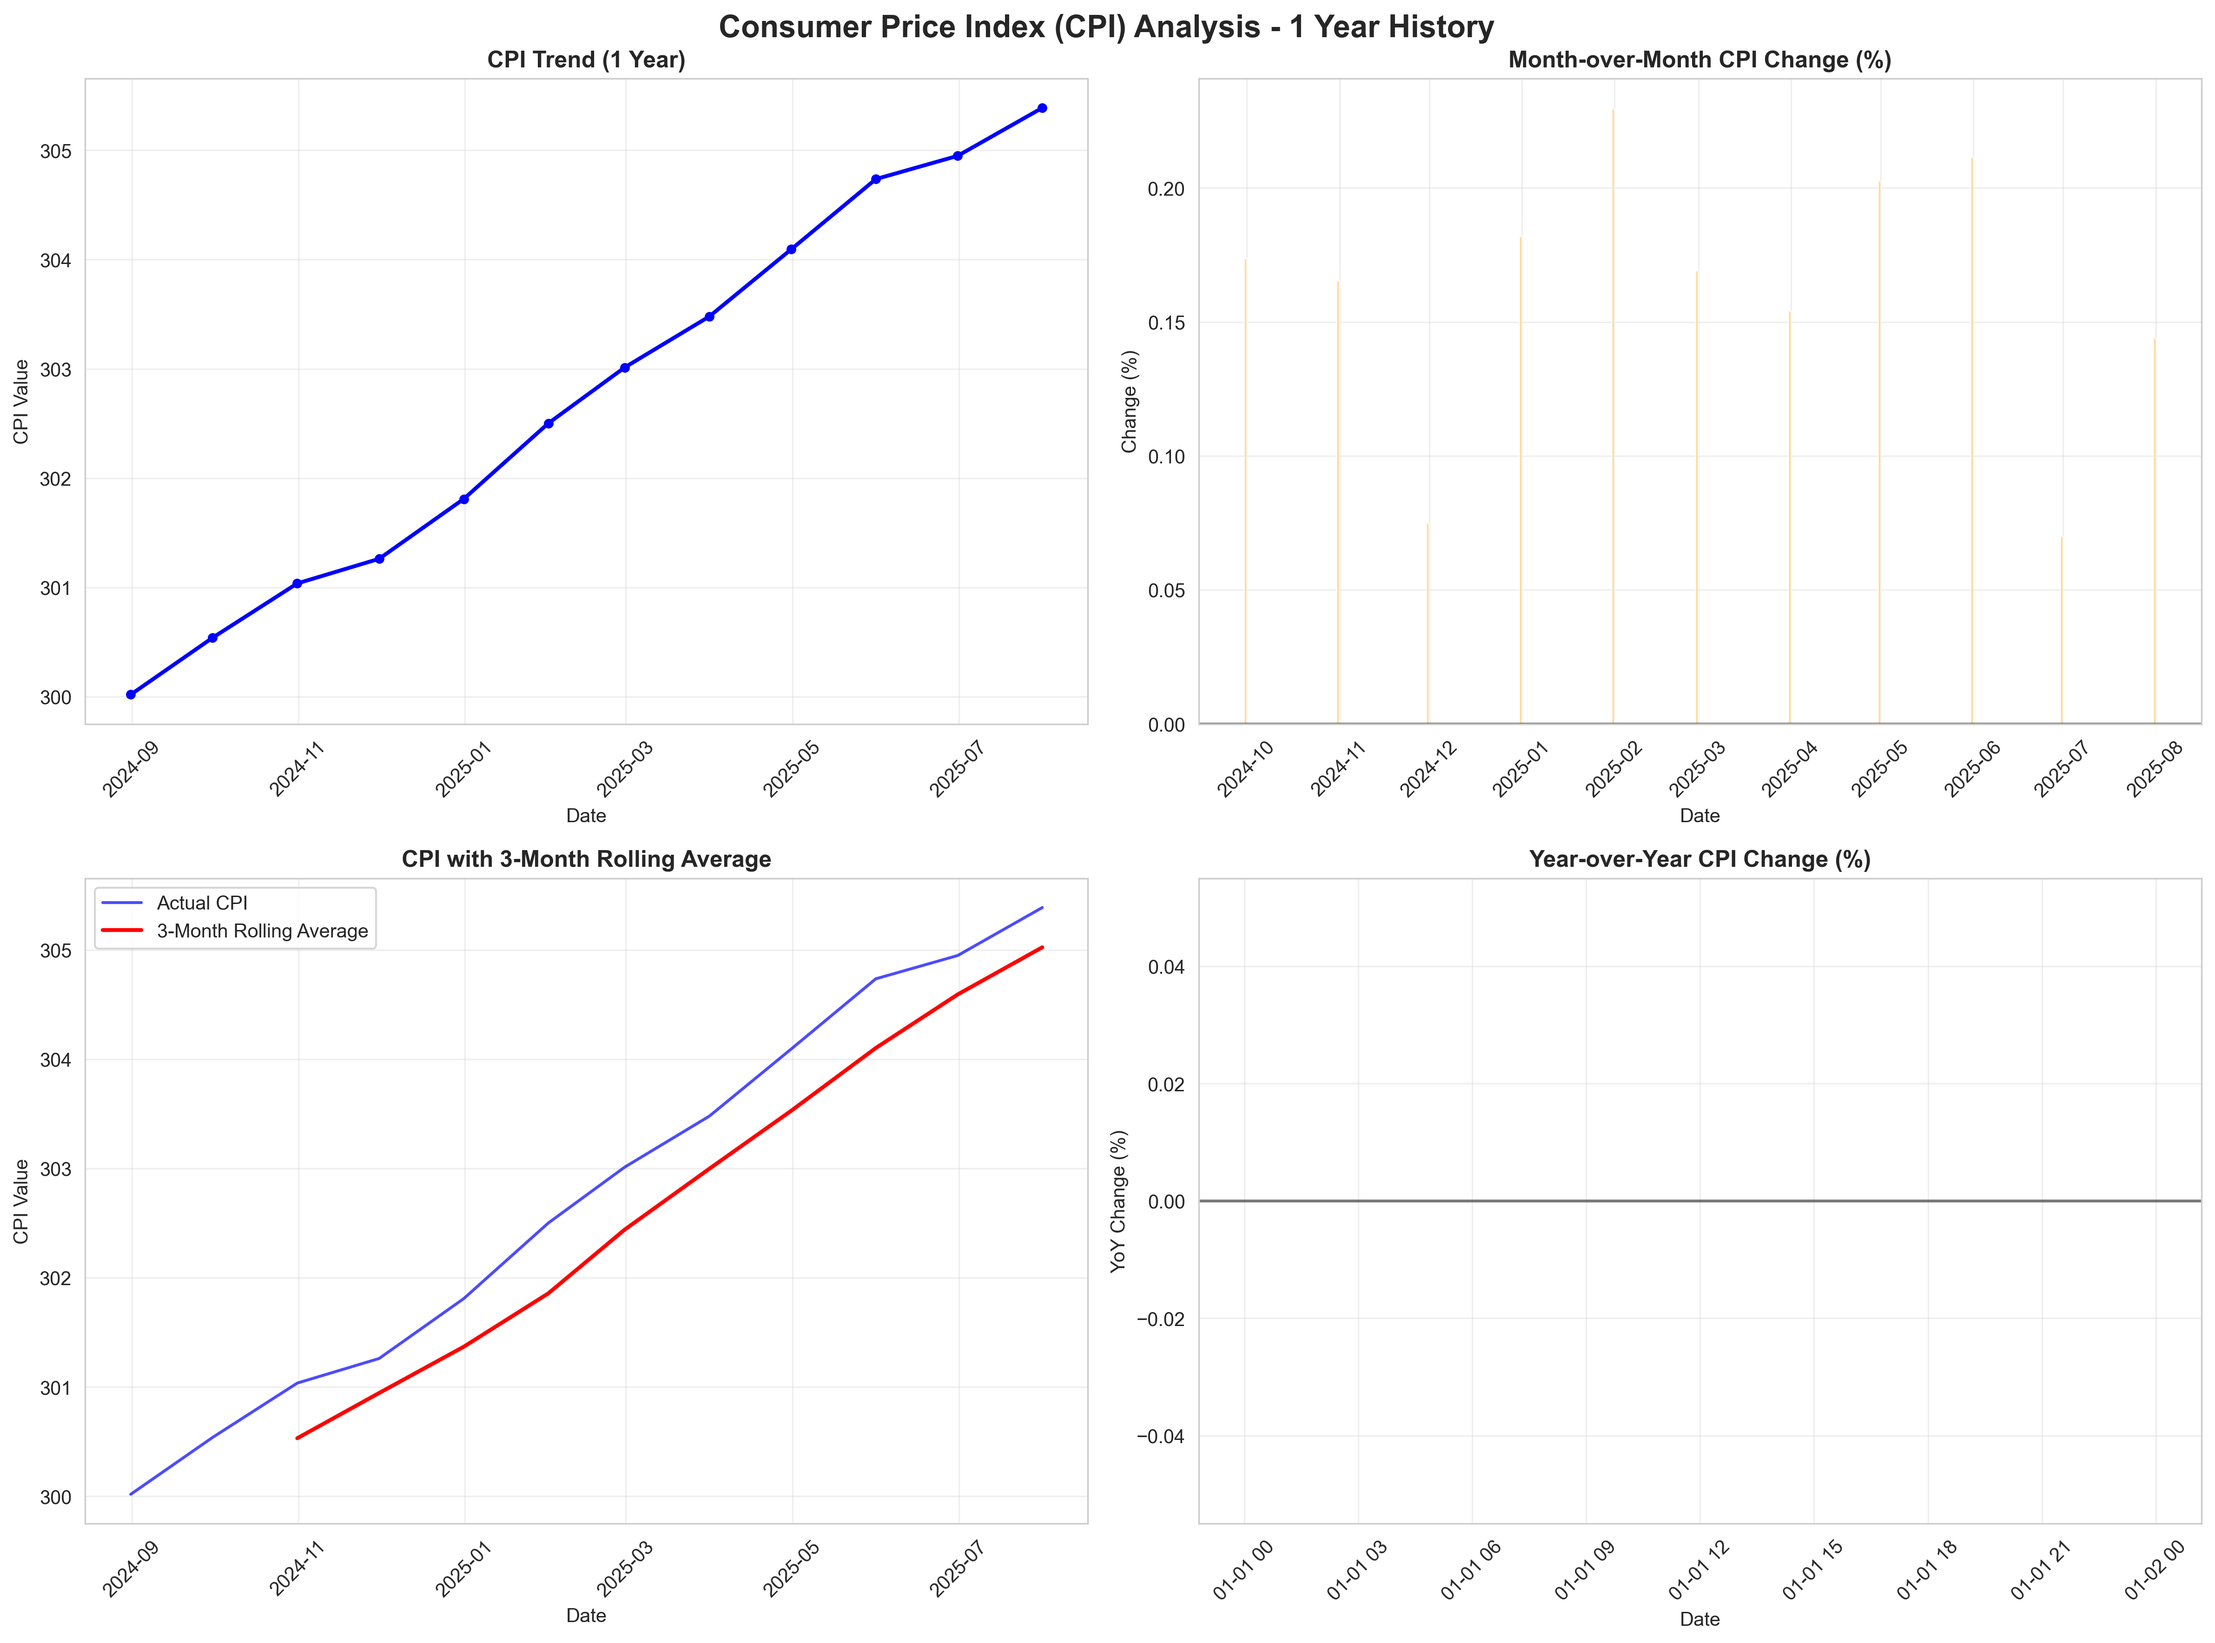
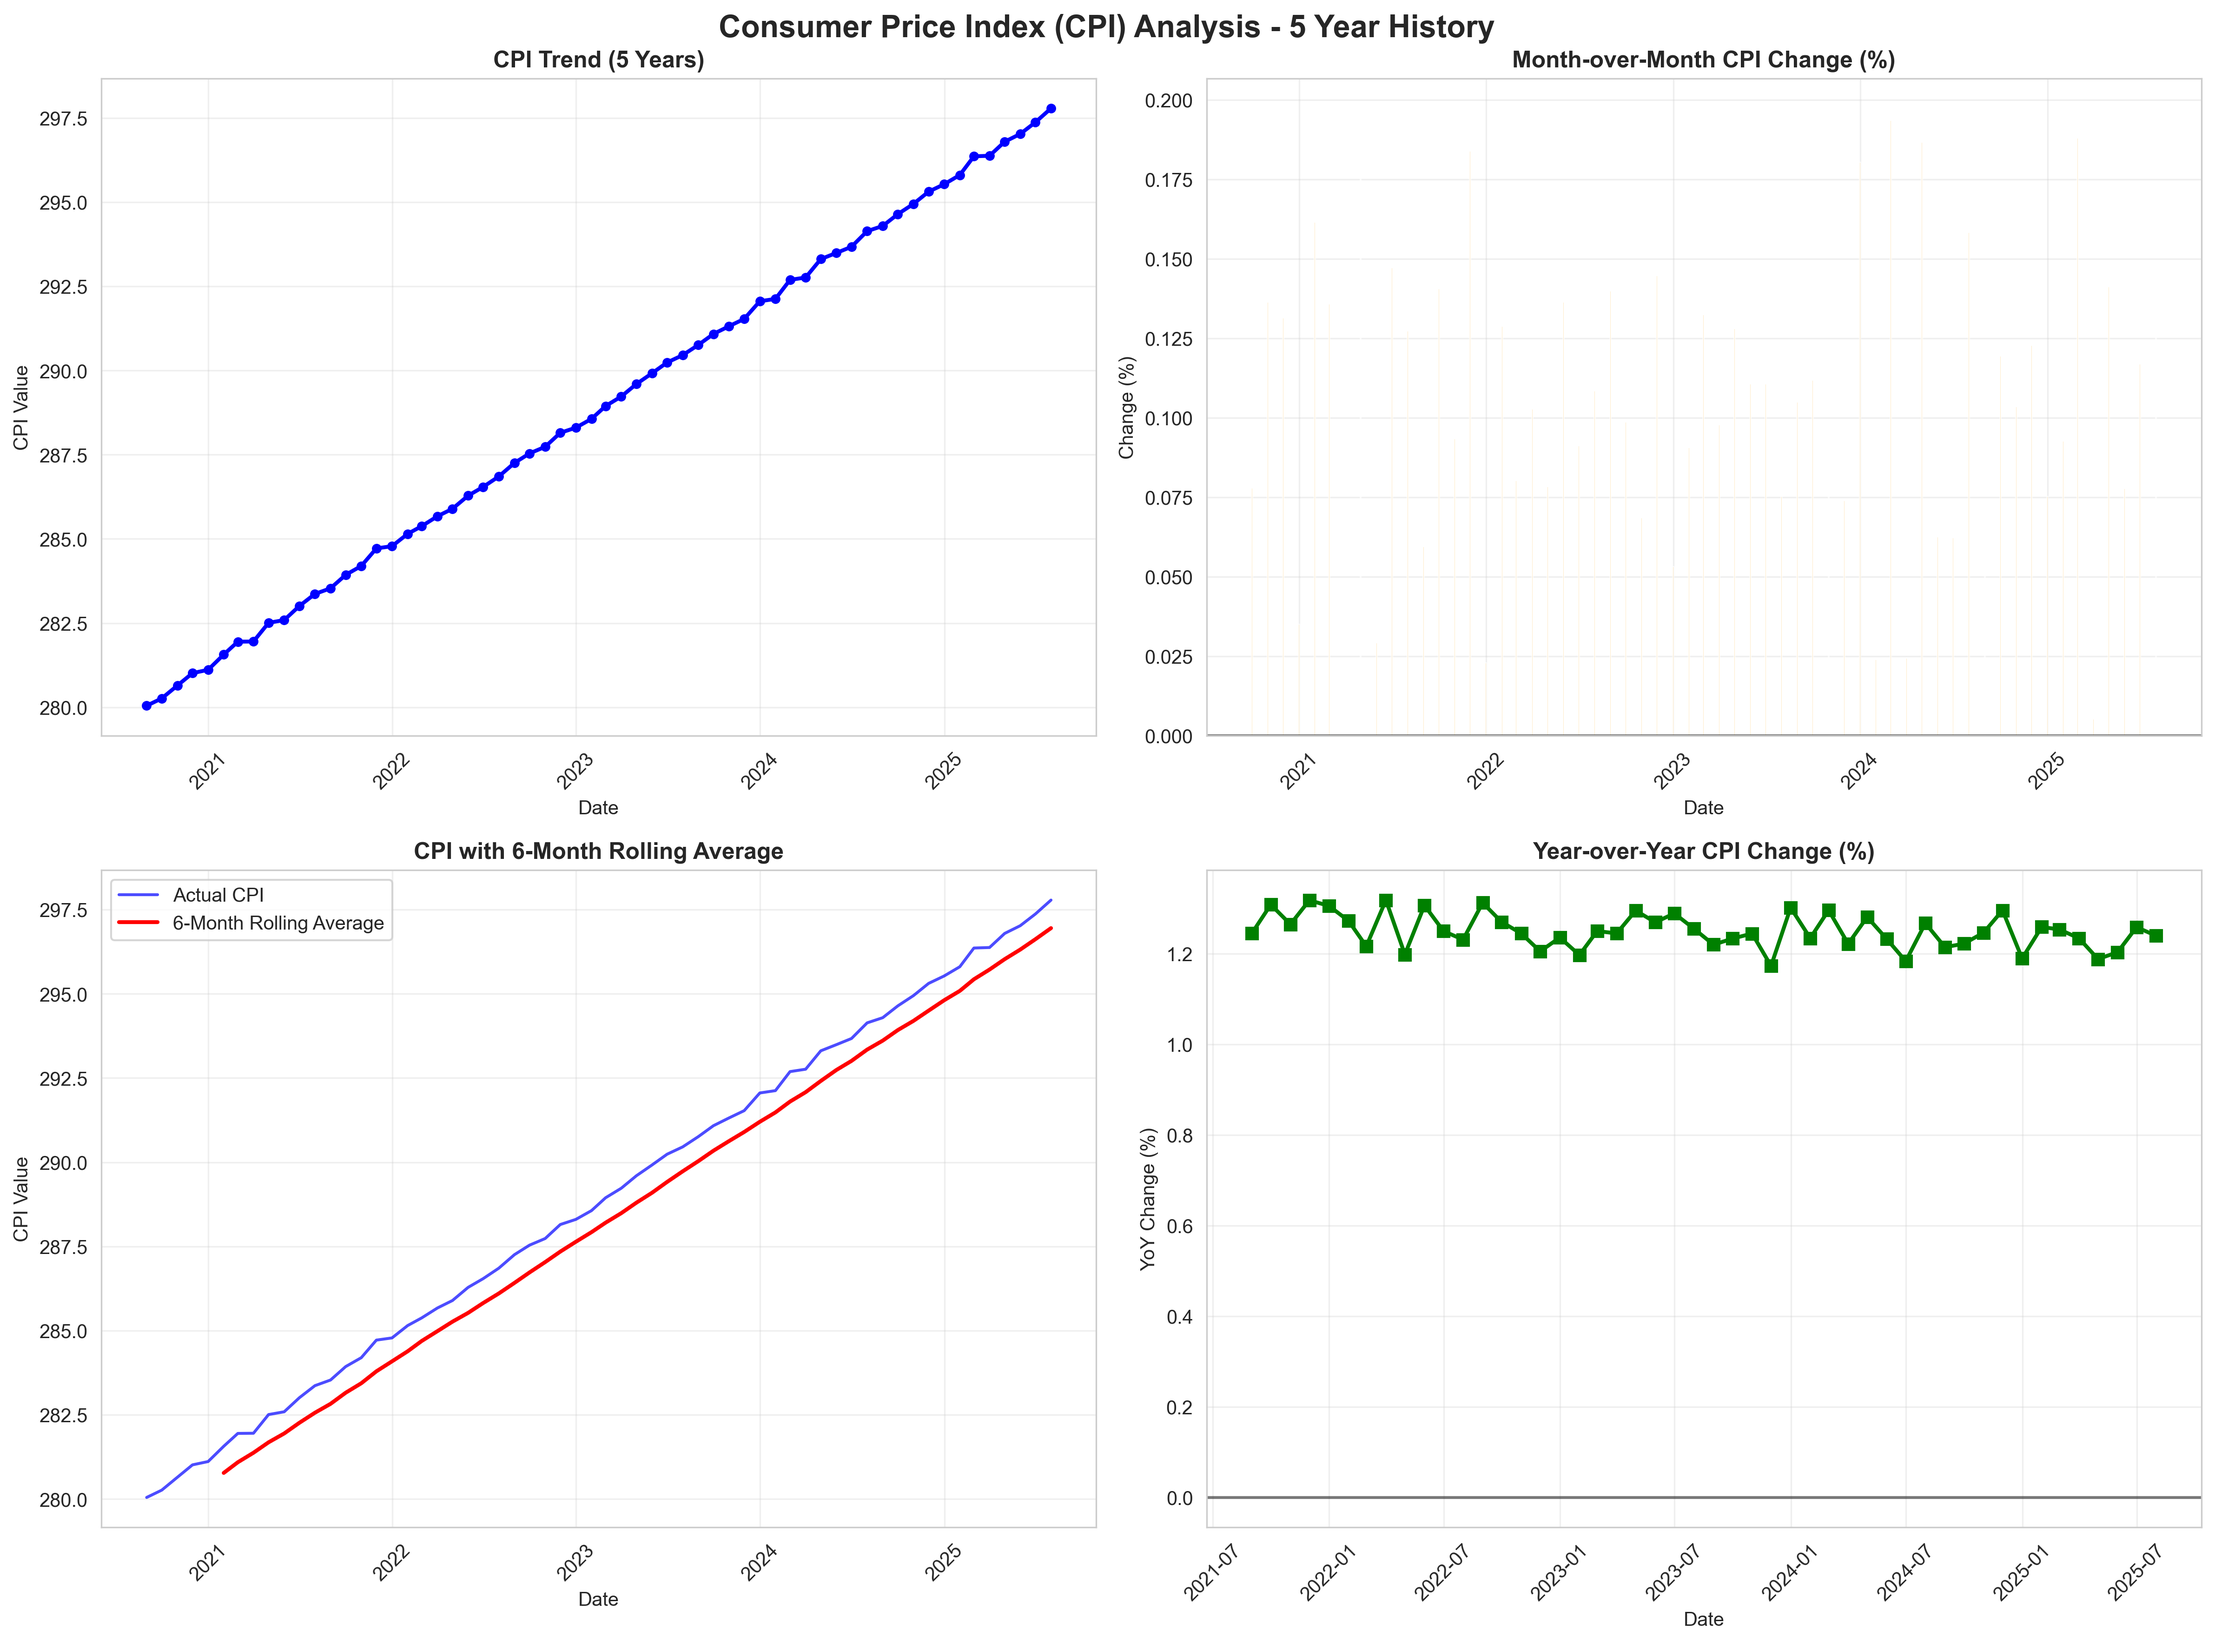
Extend CPI analysis to 5-year range - Update test_fred_api.py to fetch 5 years of CPI data instead of 1 year - Add 5-year inflation rate calculations and volatility metrics - Update chart titles and descriptions to reflect longer time horizon - Improve rolling average from 3-month to 6-month for bet

diff --git a/test_fred_api.py b/test_fred_api.py
@@ -9,7 +9,7 @@ import numpy as np
 sns.set_style("whitegrid")
 plt.rcParams['figure.figsize'] = (12, 8)
 
-print("Testing FRED API for CPI data...")
+print("Testing FRED API for CPI data (5-Year Analysis)...")
 print("=" * 50)
 
 # Initialize FRED API
@@ -27,11 +27,11 @@ try:
         
         # Create sample data for demonstration
         end_date = datetime.now()
-        start_date = end_date - timedelta(days=365)
+        start_date = end_date - timedelta(days=1825)  # 5 years of data
         
         # Generate sample CPI data (monthly)
         dates = pd.date_range(start=start_date, end=end_date, freq='ME')
-        sample_cpi = [300 + i*0.5 + np.random.normal(0, 0.1) for i in range(len(dates))]
+        sample_cpi = [280 + i*0.3 + np.random.normal(0, 0.1) for i in range(len(dates))]
         
         cpi_data = pd.DataFrame({
             'date': dates,
@@ -48,7 +48,7 @@ try:
         # Get CPI data (Consumer Price Index for All Urban Consumers: All Items)
         # CPIAUCSL is the most commonly used CPI series
         end_date = datetime.now()
-        start_date = end_date - timedelta(days=365)
+        start_date = end_date - timedelta(days=1825)  # 5 years of data
         
         cpi_data = fred.get_series('CPIAUCSL', start_date, end_date)
         print(f"✅ Successfully fetched {len(cpi_data)} CPI data points")
@@ -59,9 +59,9 @@ except Exception as e:
     
     # Create sample data as fallback
     end_date = datetime.now()
-    start_date = end_date - timedelta(days=365)
+    start_date = end_date - timedelta(days=1825)  # 5 years of data
     dates = pd.date_range(start=start_date, end=end_date, freq='ME')
-    sample_cpi = [300 + i*0.5 + np.random.normal(0, 0.1) for i in range(len(dates))]
+    sample_cpi = [280 + i*0.3 + np.random.normal(0, 0.1) for i in range(len(dates))]
     
     cpi_data = pd.DataFrame({
         'date': dates,
@@ -79,9 +79,16 @@ print(f"CPI change over period: {((cpi_data.iloc[-1]['CPIAUCSL'] / cpi_data.iloc
 # Calculate year-over-year inflation rate
 if len(cpi_data) >= 12:
     current_cpi = cpi_data.iloc[-1]['CPIAUCSL']
-    year_ago_cpi = cpi_data.iloc[0]['CPIAUCSL']  # First observation (1 year ago)
+    year_ago_cpi = cpi_data.iloc[-13]['CPIAUCSL']  # 12 months ago
     yoy_inflation = ((current_cpi / year_ago_cpi) - 1) * 100
     print(f"Year-over-year inflation rate: {yoy_inflation:.2f}%")
+    
+    # Calculate 5-year inflation rate
+    if len(cpi_data) >= 60:
+        five_year_ago_cpi = cpi_data.iloc[0]['CPIAUCSL']  # First observation (5 years ago)
+        five_year_inflation = ((current_cpi / five_year_ago_cpi) - 1) * 100
+        print(f"5-year inflation rate: {five_year_inflation:.2f}%")
+        print(f"Average annual inflation over 5 years: {five_year_inflation/5:.2f}%")
 
 # Display first few and last few data points
 print(f"\n📈 CPI Data Preview:")
@@ -95,11 +102,11 @@ print(f"\n🎨 Creating CPI visualizations...")
 
 # Create a comprehensive CPI analysis chart
 fig, axes = plt.subplots(2, 2, figsize=(16, 12))
-fig.suptitle('Consumer Price Index (CPI) Analysis - 1 Year History', fontsize=16, fontweight='bold')
+fig.suptitle('Consumer Price Index (CPI) Analysis - 5 Year History', fontsize=16, fontweight='bold')
 
 # Chart 1: CPI Trend Over Time
 axes[0,0].plot(cpi_data.index, cpi_data['CPIAUCSL'], 'b-', linewidth=2, marker='o', markersize=4)
-axes[0,0].set_title('CPI Trend (1 Year)', fontweight='bold')
+axes[0,0].set_title('CPI Trend (5 Years)', fontweight='bold')
 axes[0,0].set_xlabel('Date')
 axes[0,0].set_ylabel('CPI Value')
 axes[0,0].grid(True, alpha=0.3)
@@ -115,11 +122,11 @@ axes[0,1].grid(True, alpha=0.3)
 axes[0,1].tick_params(axis='x', rotation=45)
 axes[0,1].axhline(y=0, color='black', linestyle='-', alpha=0.5)
 
-# Chart 3: Rolling 3-Month Average
-cpi_data['Rolling_3M'] = cpi_data['CPIAUCSL'].rolling(window=3).mean()
+# Chart 3: Rolling 6-Month Average
+cpi_data['Rolling_6M'] = cpi_data['CPIAUCSL'].rolling(window=6).mean()
 axes[1,0].plot(cpi_data.index, cpi_data['CPIAUCSL'], 'b-', label='Actual CPI', alpha=0.7)
-axes[1,0].plot(cpi_data.index, cpi_data['Rolling_3M'], 'r-', label='3-Month Rolling Average', linewidth=2)
-axes[1,0].set_title('CPI with 3-Month Rolling Average', fontweight='bold')
+axes[1,0].plot(cpi_data.index, cpi_data['Rolling_6M'], 'r-', label='6-Month Rolling Average', linewidth=2)
+axes[1,0].set_title('CPI with 6-Month Rolling Average', fontweight='bold')
 axes[1,0].set_xlabel('Date')
 axes[1,0].set_ylabel('CPI Value')
 axes[1,0].legend()
@@ -151,7 +158,7 @@ print(f"✅ CPI analysis charts saved as: {chart_filename}")
 # Create a simple trend chart
 fig2, ax = plt.subplots(figsize=(12, 6))
 ax.plot(cpi_data.index, cpi_data['CPIAUCSL'], 'b-', linewidth=3, marker='o', markersize=6)
-ax.set_title('Consumer Price Index (CPI) - 1 Year Trend', fontsize=14, fontweight='bold')
+ax.set_title('Consumer Price Index (CPI) - 5 Year Trend', fontsize=14, fontweight='bold')
 ax.set_xlabel('Date')
 ax.set_ylabel('CPI Value')
 ax.grid(True, alpha=0.3)
@@ -178,11 +185,19 @@ print(f"Maximum CPI: {cpi_data['CPIAUCSL'].max():.2f}")
 # Calculate and display inflation metrics
 if len(cpi_data) >= 12:
     print(f"\n💰 Inflation Analysis:")
-    print(f"Starting CPI: {cpi_data.iloc[0]['CPIAUCSL']:.2f}")
-    print(f"Ending CPI: {cpi_data.iloc[-1]['CPIAUCSL']:.2f}")
-    print(f"Total Change: {((cpi_data.iloc[-1]['CPIAUCSL'] / cpi_data.iloc[0]['CPIAUCSL']) - 1) * 100:.2f}%")
+    print(f"Starting CPI (5 years ago): {cpi_data.iloc[0]['CPIAUCSL']:.2f}")
+    print(f"Ending CPI (current): {cpi_data.iloc[-1]['CPIAUCSL']:.2f}")
+    print(f"Total 5-Year Change: {((cpi_data.iloc[-1]['CPIAUCSL'] / cpi_data.iloc[0]['CPIAUCSL']) - 1) * 100:.2f}%")
     print(f"Average Monthly Change: {cpi_data['MoM_Change'].mean():.2f}%")
     print(f"Year-over-Year Inflation: {yoy_inflation:.2f}%")
+    
+    if len(cpi_data) >= 60:
+        print(f"5-Year Inflation Rate: {five_year_inflation:.2f}%")
+        print(f"Average Annual Inflation (5 years): {five_year_inflation/5:.2f}%")
+        
+        # Calculate volatility
+        print(f"CPI Volatility (Standard Deviation): {cpi_data['CPIAUCSL'].std():.2f}")
+        print(f"Monthly Change Volatility: {cpi_data['MoM_Change'].std():.2f}%")
 
 print(f"\n" + "=" * 50)
 print("CPI analysis complete!")

diff --git a/README.md b/README.md
@@ -70,7 +70,7 @@ This toolkit shows only the most critical metrics in tables for quick reference,
 
 ### Economic Data Visualizations
 ![CPI Analysis](cpi_analysis_charts.png)
-*Consumer Price Index Analysis - 1 Year History*
+*Consumer Price Index Analysis - 5 Year History*
 
 ### Chart Descriptions:
 
@@ -87,10 +87,10 @@ This toolkit shows only the most critical metrics in tables for quick reference,
 6. **2024 Key Performance Summary**: Comprehensive overview of critical financial ratios
 
 #### Economic Data Charts:
-1. **CPI Trend Analysis**: Consumer Price Index tracking with trend line
+1. **CPI Trend Analysis**: Consumer Price Index tracking with trend line (5-year view)
 2. **Month-over-Month Changes**: Inflation rate volatility analysis
-3. **Rolling Averages**: Smoothed trend analysis for better pattern recognition
-4. **Year-over-Year Comparison**: Long-term inflation perspective
+3. **Rolling Averages**: 6-month smoothed trend analysis for better pattern recognition
+4. **Year-over-Year Comparison**: Long-term inflation perspective with 5-year context
 
 **The charts contain all the detailed financial and economic data that was previously shown in tables, presented in a much more visual and insightful way. They clearly illustrate both company performance and broader economic trends.**
 
